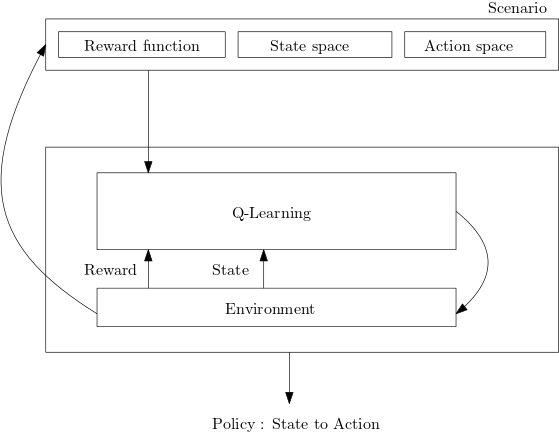
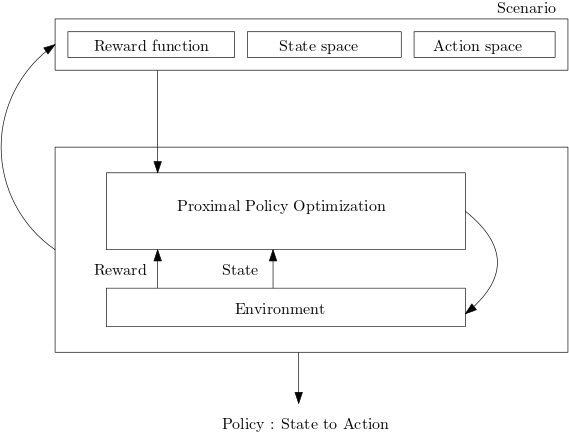
Updated numbers in results and outdated figures

diff --git a/Thesis/dio.tex b/Thesis/dio.tex
@@ -21,25 +21,25 @@ It does not mean that our solution is specific to it, rather it can be generaliz
     \label{fig:diorl}
   \end{minipage}
 \end{figure}
-\giselle{Are these figures still accurate? I thought you were no
-longer using Q-learning.}
 
 The diagram in Figure \ref{fig:basicrl} describes the basic routine of RL in more details. The environment defined by the scenario sends the current state 
-to the Q-Learning algorithm. The agent chooses an action from the action space and sends it to the environment. This action affects the environment stepping it to some next state. 
+to the \emph{Proximal Policy Optimization} algorithm. More information on the algorithms used found in \ref{sec:rldetails}. The agent chooses an action from the action space and sends it to the environment. This action affects the environment stepping it to some next state. 
 The resulting state along its associated reward is computed from the reward function and step function formalized in the scenario. Thus, in the next iteration, the 
 agent receives the reward from its previous action which it uses to improve its policy and continues with its training starting from the computed next state.  
 
 \medskip 
 
 The architecture in Figure \ref{fig:diorl} introduces \dio{} in the feedback loop. It is kept independent of the RL module. Precisely, when the scenario is query-ed for the reward and 
-the resulting next state of a (state, action) pair, rather than computing the reward using the reward function, the latter is able to query \dio{}. The result of this query is $A$ which we keep 
-obscure. The fundamental idea is that $A$ is used to inform the reward function when it is tasked with computing the reward. 
+the resulting next state of a (state, action) pair, rather than computing the reward using the reward function, the latter is able to query \dio{}. The result of this query is $J$, a judgment which we keep 
+obscure. The fundamental idea is that $J$ is used to inform the reward function when it is tasked with computing the reward. 
  
 
 \subsection{\dio{} procedure}
 \label{sec:modules}
 In practice, we consider the following modules and their interactions as shown in \ref{fig:mods}.
 
+
+\begin{multicols}{2}
 \begin{enumerate}
   \item \textbf{World Rules} defining the rules governing the world. This is domain-dependent and implemented 
         in a logic programming file, i.e. we are able to define the next step via step semantics.
@@ -54,11 +54,12 @@ In practice, we consider the following modules and their interactions as shown i
   \item \textbf{Translation Unit} defining the translation from state to ground facts and from labels to a numerical value, e.g. if the predicate crash is true with $P = 0.25$, then the reward shaped is $r + -0.25$. 
   \item \textbf{Reinforcement Learning} is our independent module that does not make assumption on the algorithm chosen for RL.
 \end{enumerate}
+\end{multicols}
 
 
 \begin{figure}[H]
   \centering
-  \includegraphics[scale=0.55]{figures/dynamics.png}
+  \includegraphics[scale=0.4]{figures/dynamics.png}
   \caption{Modules \& Interactions}
   \label{fig:mods}
 \end{figure}

diff --git a/Thesis/gridworld.tex b/Thesis/gridworld.tex
@@ -34,12 +34,11 @@ defined as,
 Note that the $max_steps$ is defined by the manhattan distance between the agent and the goal. The intuition is 
 we want to reward the agent the faster it reaches the goal. Additionally, the agent is punished with $-1$ if it collides with 
 an obstacle, to encourage staying away from the dynamic obstacles. 
-\newpage
 
 \begin{multicols}{2}[\medskip]
     \begin{figure}[H]
       \centering
-      \includegraphics[scale=0.55]{figures/gridworldrl.png}
+      \includegraphics[scale=0.4]{figures/gridworldrl.png}
       \caption{Gridworld with Dynamic Obstacles}
       \label{fig:gridrl}
     \end{figure}
@@ -202,7 +201,7 @@ Trivially, the \textsc{getReward} from TU is an identity function.
       \end{algorithm}
 
     \subsection{Results}
-    Our testing was done on a Dynamic Obstacles grid world using proximal policy optimization over 80k frames. 
+    Our testing was done on a Dynamic Obstacles grid world using proximal policy optimization over 80k episodes. 
     We pick up the frames per second to evaluate the speed of learning, the mean number of frames per episode 
     to evaluate the optimality of the solution and finally, the mean returns per episode to evaluate convergence relative 
     to the number of frames. The code is available on github \cite{dio} with steps on how to replicate our model. 
@@ -300,10 +299,9 @@ Trivially, the \textsc{getReward} from TU is an identity function.
     took 9 minutes to train versus 16 seconds for the implementation without. However, this loss in time shows as in \ref{fig:framesdio} 
     a gain in optimality. When visualizing the learned policy of \dio{}, we found that our agent succeeds in 90\% 
     of the time to reach the goal without colliding taking an average of $50 \pm 21$. Consider that 
-    the optimal number of steps without obstacles is 13, while the policy learned without \dio{} did not reach a suitable solution and collides with an obstacle $17\%$ of the episodes. Furthermore, it takes an average of $231 \pm 59$ to end an episode 
-    indicating that more than not, it ends the episode without ever
-    reaching the goal.\giselle{The numbers in this paragraph need to
-    be updated.} 
+    the optimal number of steps without obstacles is 11. It also never exhausts its maximum number of steps, 
+    meaning that our agent either reaches a goal or collide with an obstacle in 10\% of the time. The policy learned without \dio{} did not reach a suitable solution and collides with an obstacle $18\%$ of the episodes. Furthermore, it takes an average of $231 \pm 59$ to end an episode, 
+    precisely, in 82\% of the episodes, the policy exhausts its maximum number of steps and never reaches the goal.
 
 
     %%
